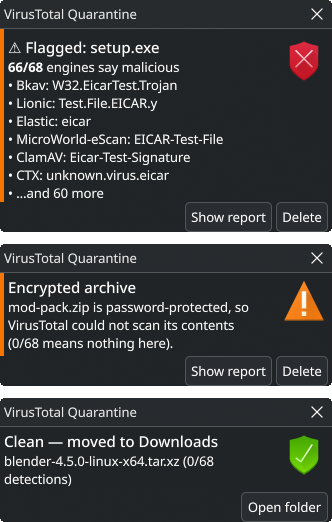
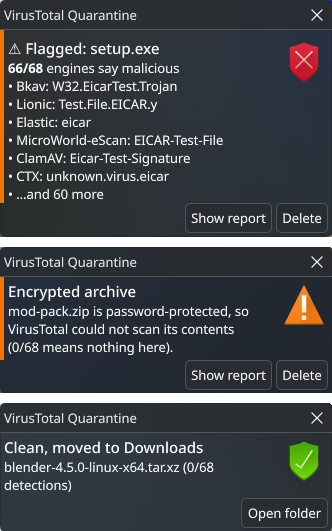
VirusTotal Quarantine page: the new notification screenshot

diff --git a/projects/vt-quarantine.html b/projects/vt-quarantine.html
@@ -74,7 +74,7 @@
           <dt>Gaming:</dt><dd>while you play fullscreen, questions wait until you're done.</dd>
         </dl>
       </div>
-      <img class="shot" src="/images/vt-quarantine-notifications.png" width="332" height="522"
+      <img class="shot" src="/images/vt-quarantine-notifications.png?v=2" width="332" height="531"
         alt="Notifications: a flagged setup.exe with Show report and Delete buttons, and a clean file moved to Downloads">
     </div>
   </article>
